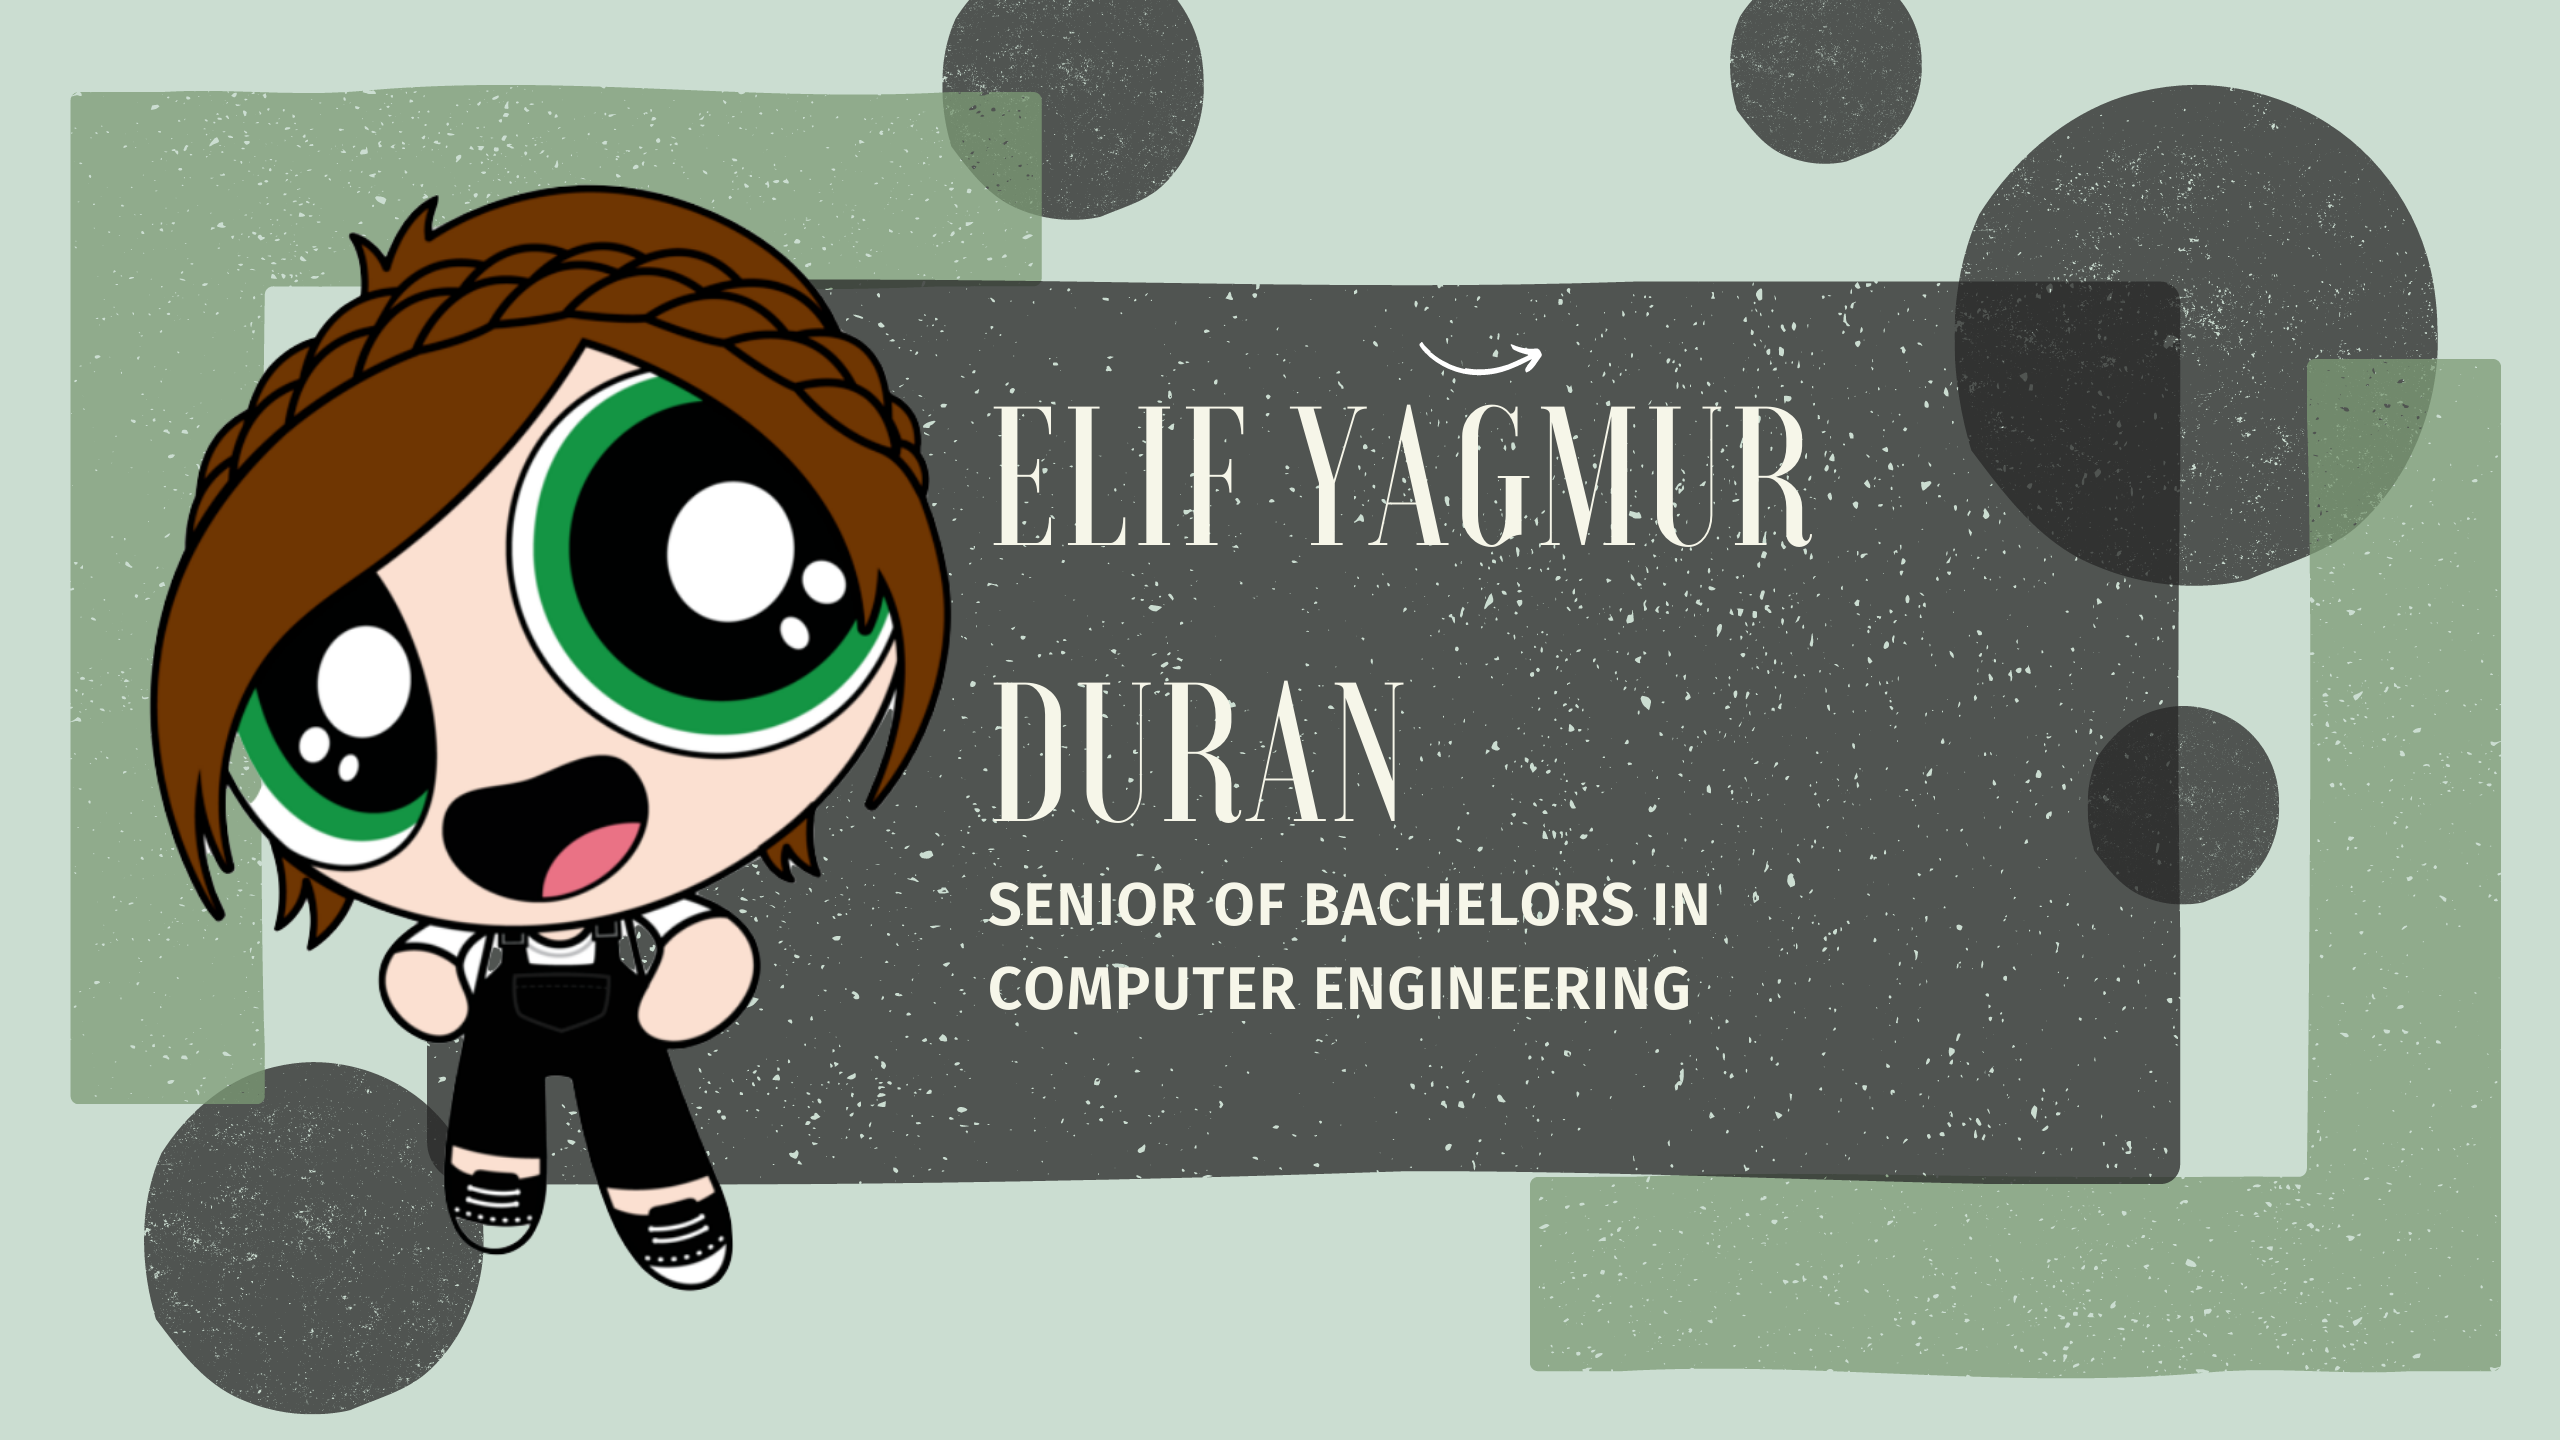
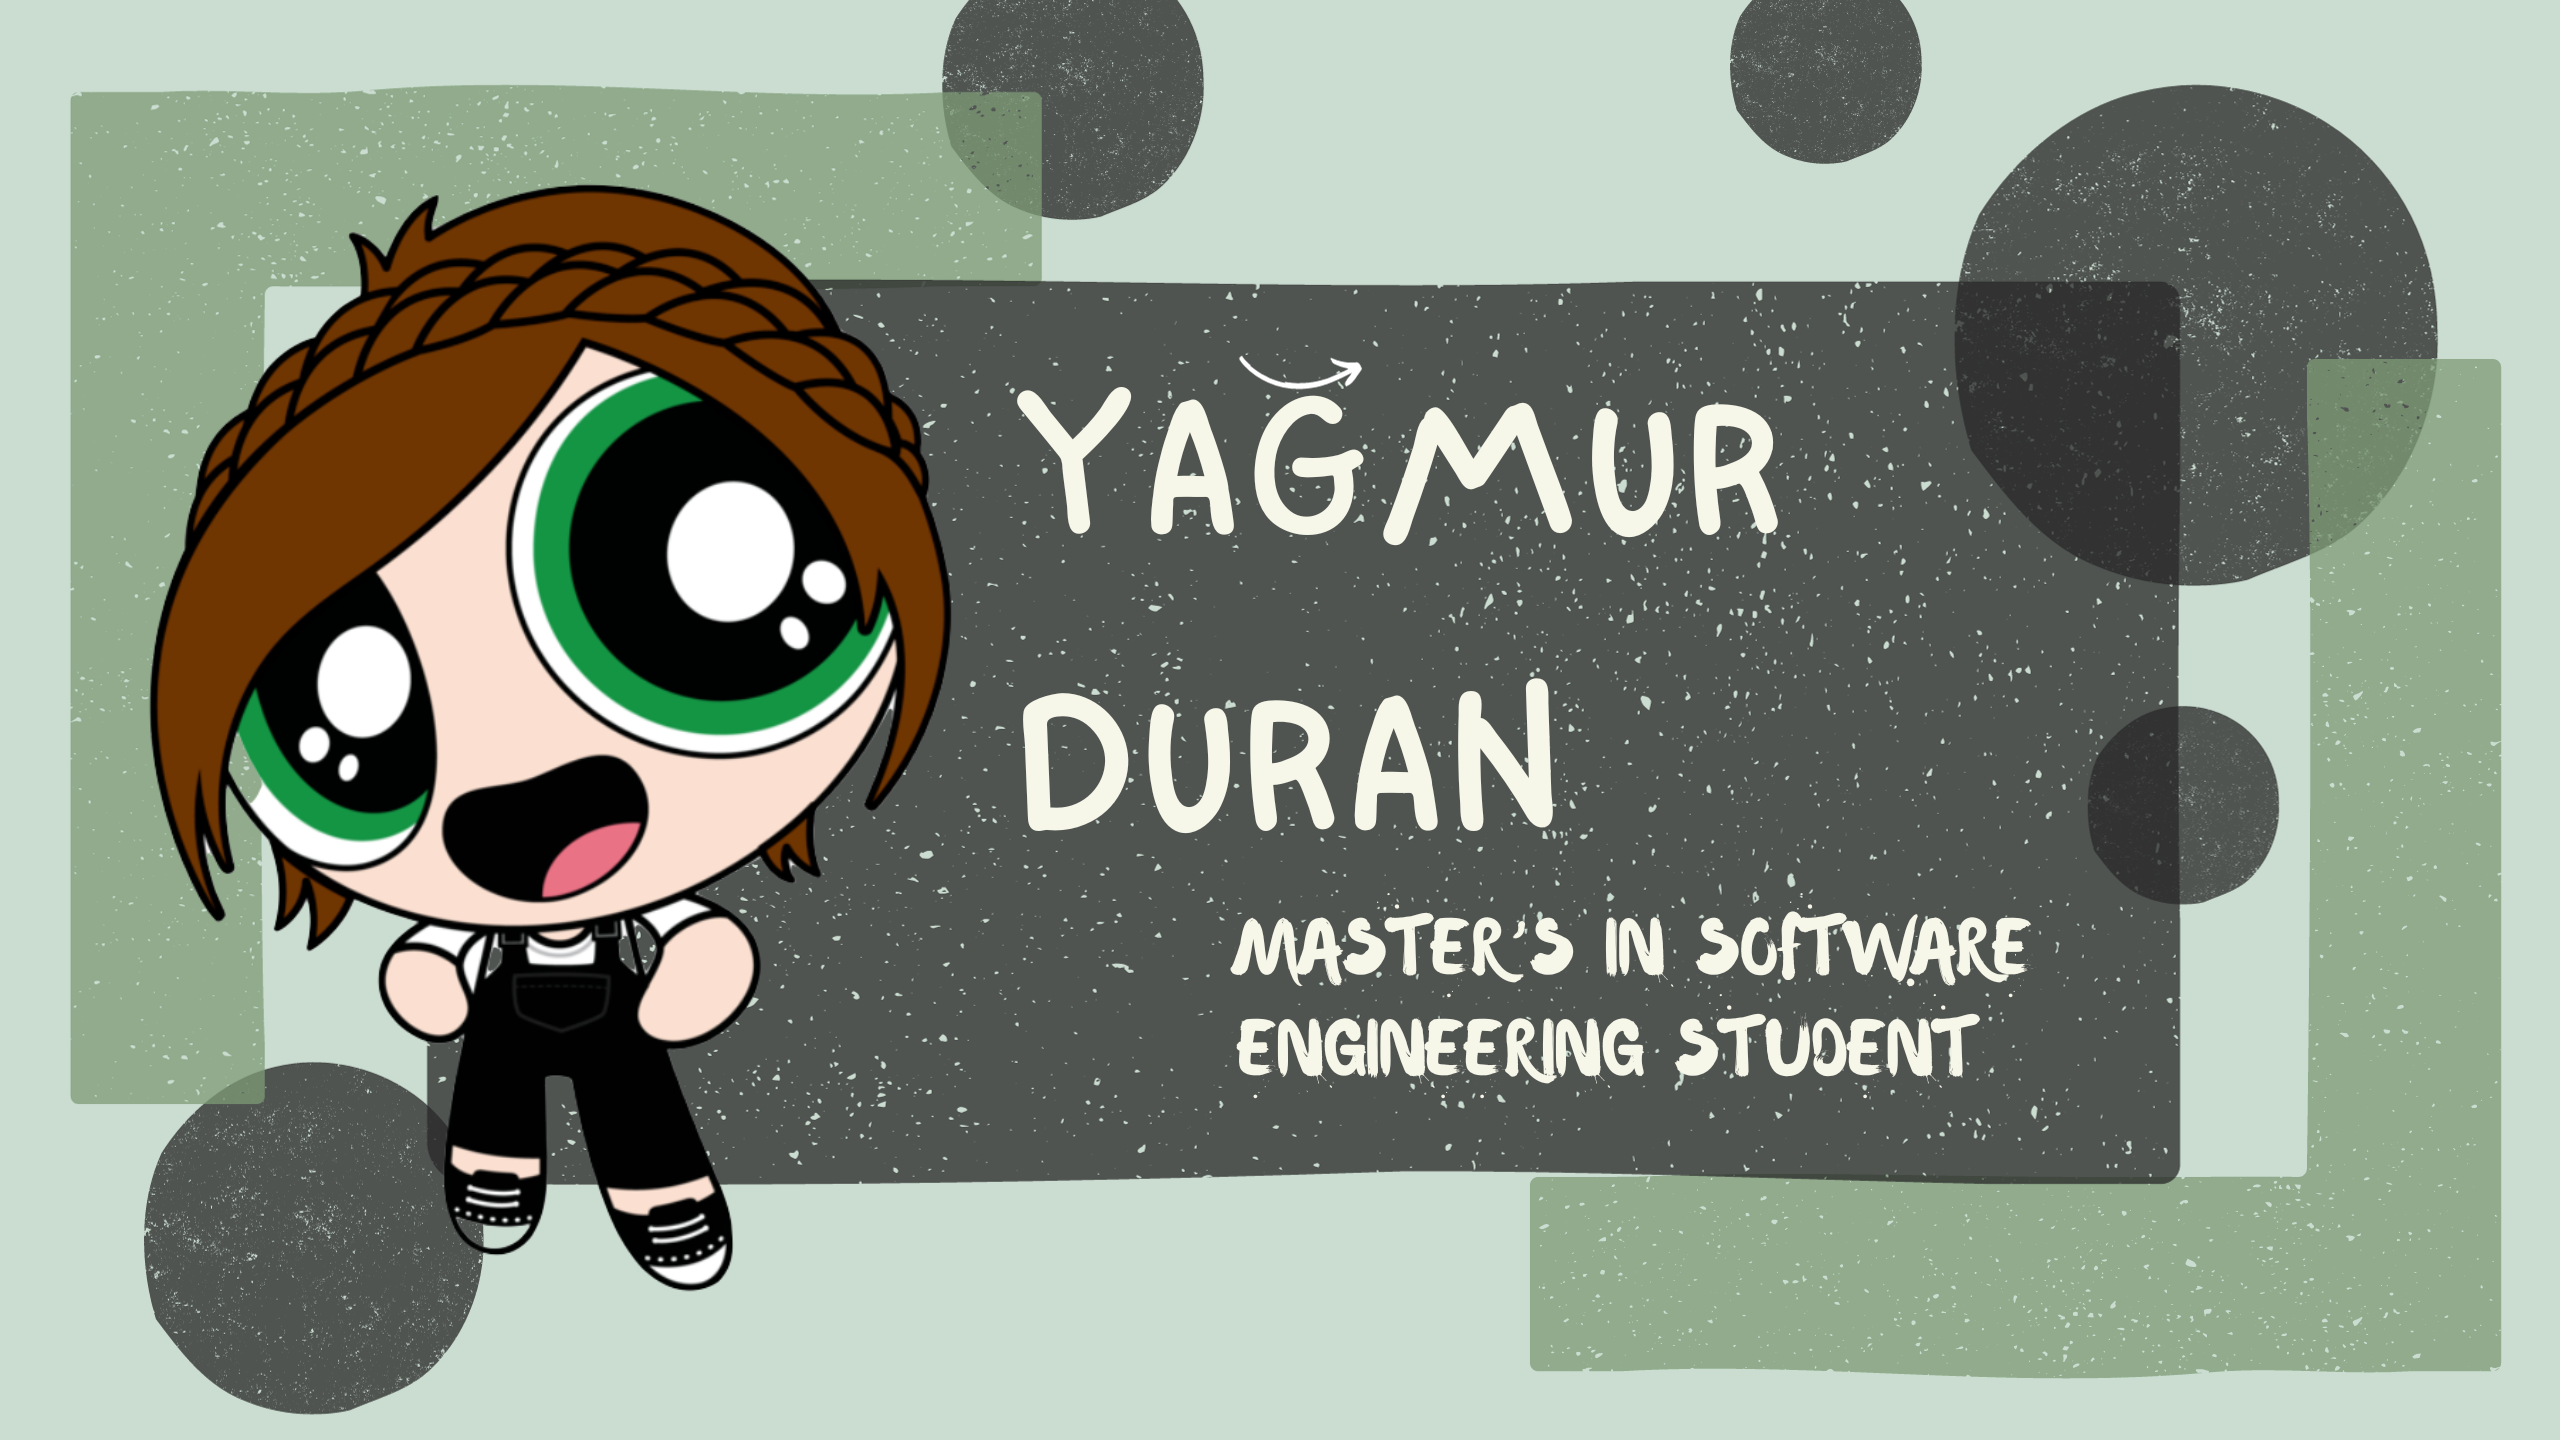
update

Changed region(s): [[0.375, 0.4688, 0.8125, 0.75], [0.375, 0.25, 0.7188, 0.375]]

diff --git a/README.md b/README.md
@@ -1,13 +1,39 @@
-<h1 align="center" height='500px'> welcome☄ </h1>
+<h1 align="center" height='500px'> welcome ☄ </h1>
+
+### hi! welcome to my github page. 🧙♀
+
+<img src="banner.png">
+
+### about me 🌙
+
+my name is yağmur. i am a master student in software engineering looking for opportunities to advance in my career. i am also a video essay youtuber.
+
+## my education 🔮
+
+master's in software engineering | [free university of bozen bolzano](https://www.unibz.it/en/faculties/engineering/master-software-engineering/)
+
+bachelor's in computer engineering | [yıldız technical university](http://www.bologna.yildiz.edu.tr/index.php?r=program/view&id=196&aid=3)
+
+## currently working on... 🔭
+
+    🐈 my master's degree and software engineering skills
+
+    🐈 an android notepad app with java
+
+    🐈 video essays for my youtube channel
+
+## you can find me here... 🕯
 
 [![LinkedIn][linkedin-shield]][linkedin-url]
 [![Gmail][gmail-shield]][gmail-url]
+[![youtube][youtube-shield]][youtube-url]
+[![twitter][twitter-shield]][twitter-url]
 
 [linkedin-shield]: https://img.shields.io/badge/linkedin-%230077B5.svg?style=for-the-badge&logo=linkedin&logoColor=white
 [linkedin-url]: https://www.linkedin.com/in/ya%C4%9Fmur-duran-645510182/
 [twitter-shield]: https://img.shields.io/badge/twitter-%231DA1F2.svg?style=for-the-badge&logo=Twitter&logoColor=white
 [twitter-url]: https://www.linkedin.com/in/ya%C4%9Fmur-duran-645510182/
 [youtube-shield]: https://img.shields.io/badge/YouTube-%23FF0000.svg?style=for-the-badge&logo=YouTube&logoColor=white
-[youtube-url]: https://www.youtube.com/channel/UCSknj28cl-5IPLXNUMJmxdg
+[youtube-url]: https://www.youtube.com/@CaptainRainofthe7Seas
 [gmail-shield]: https://img.shields.io/badge/Gmail-D14836?style=for-the-badge&logo=gmail&logoColor=white
 [gmail-url]: mailto:elifyagmurduran@gmail.com?
